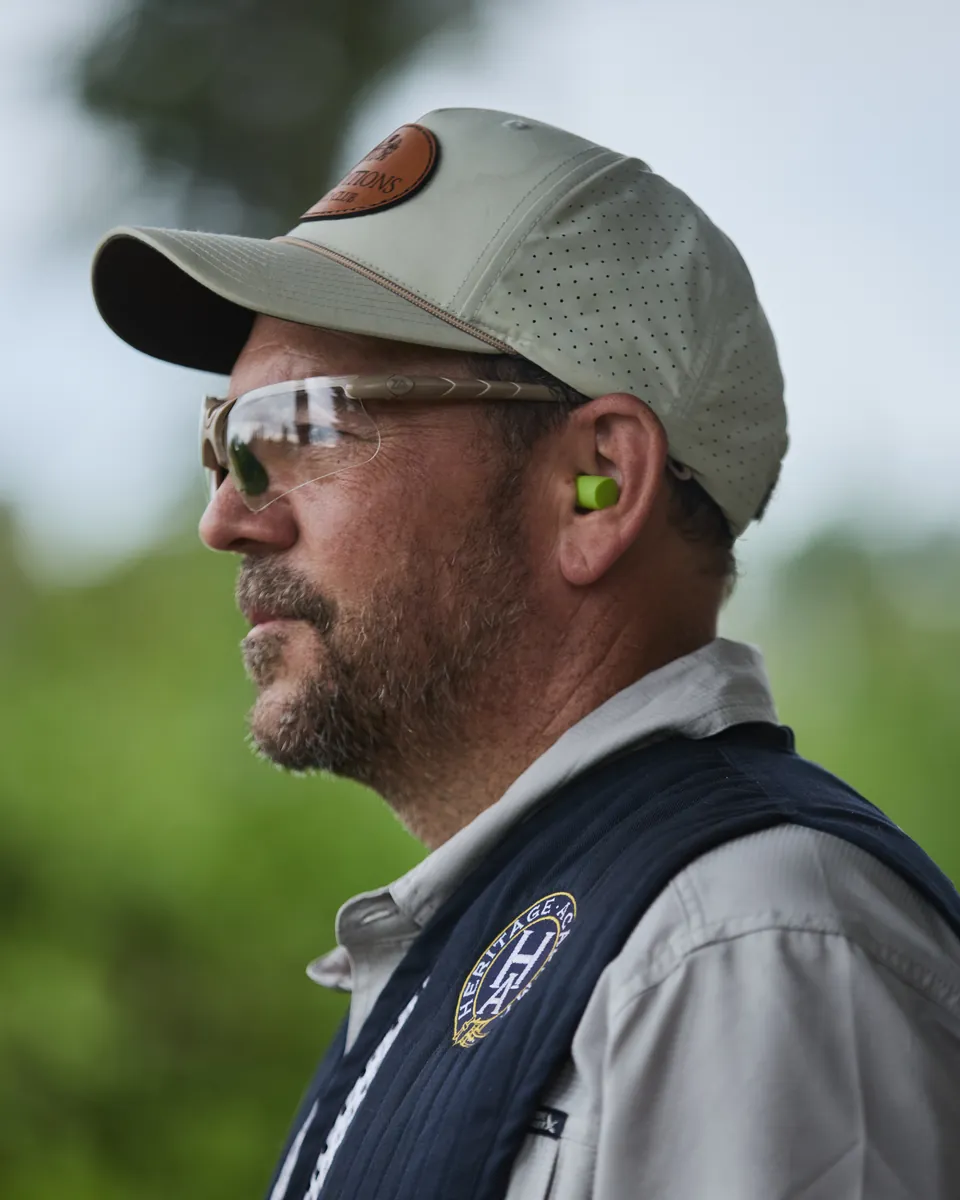
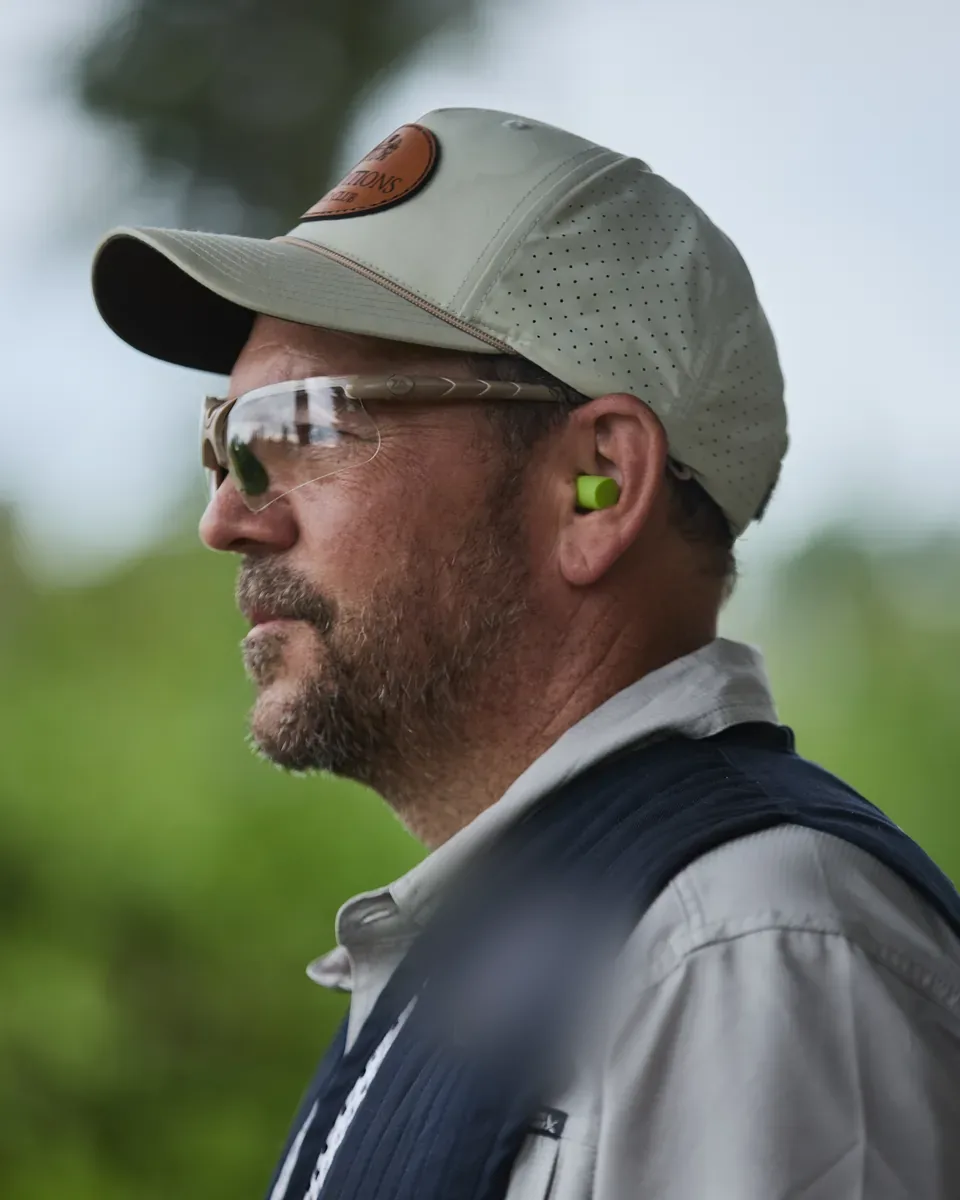
First-time: replace youth course photos with stand, river deck and bridge; soften vest patches

Changed region(s): [[0.4062, 0.6783, 0.6875, 0.925]]

diff --git a/src/app/first-time/page.tsx b/src/app/first-time/page.tsx
@@ -233,13 +233,13 @@ export default function FirstTime() {
               </ol>
               <div className="grid grid-cols-2 gap-4">
                 <div className="relative col-span-2 aspect-[4/3] rounded-lg overflow-hidden shadow-sm">
-                  <FadeImage src="/media/first-time-stand.webp" alt="A group at a covered shooting stand on the course" fill sizes="(max-width: 1024px) 100vw, 560px" className="object-cover" />
+                  <FadeImage src="/media/first-time-stand-sunset.webp" alt="A covered shooting stand at sunset on the course" fill sizes="(max-width: 1024px) 100vw, 560px" className="object-cover" />
                 </div>
                 <div className="relative aspect-[4/3] rounded-lg overflow-hidden shadow-sm">
-                  <FadeImage src="/media/first-time-guest.webp" alt="A guest shooting at a stand, wearing eye and ear protection" fill sizes="(max-width: 1024px) 50vw, 280px" className="object-cover" />
+                  <FadeImage src="/media/first-time-river-deck.webp" alt="A shooter on the river deck stand along the Little Salkehatchie River" fill sizes="(max-width: 1024px) 50vw, 280px" className="object-cover" />
                 </div>
                 <div className="relative aspect-[4/3] rounded-lg overflow-hidden shadow-sm">
-                  <FadeImage src="/media/first-time-group.webp" alt="Shooters watching a target from a stand" fill sizes="(max-width: 1024px) 50vw, 280px" className="object-cover" />
+                  <FadeImage src="/media/first-time-bridge.webp" alt="A footbridge over the river on the Riverside course" fill sizes="(max-width: 1024px) 50vw, 280px" className="object-cover" />
                 </div>
               </div>
             </div>
